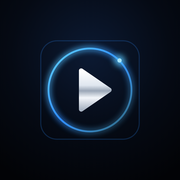
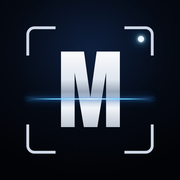
Media Studio: novo ícone (visor + M metálico)
Claude-Session: https://claude.ai/code/session_01E543Si2a25Tf39kkNbadQ5

diff --git a/sw.js b/sw.js
@@ -1,4 +1,4 @@
-const C='ps-app-202611241926', M='ps-modelos-1';
+const C='ps-app-202611241933', M='ps-modelos-1';
 const MODELOS=/\/(celular\/(modnet\.onnx|ort-wasm(-simd)?\.wasm|ort\.wasm\.min\.js)|fonts\/)/;
 self.addEventListener('install',e=>self.skipWaiting());
 self.addEventListener('activate',e=>e.waitUntil(caches.keys().then(ks=>Promise.all(ks.filter(k=>k!==C&&k!==M).map(k=>caches.delete(k)))).then(()=>self.clients.claim())));

diff --git a/README.md b/README.md
@@ -1,6 +1,6 @@
 # Media Studio (celular)
 
 Editor de posts e stories do Consultório Caio Endlich (Foto e Vídeo Lite), versão que roda no iPhone sem o Mac.
-Gerado por VideoStudio/celular_publicar.sh do repositório Consultorio em 202611241926. Não edite aqui: edite lá e publique de novo.
+Gerado por VideoStudio/celular_publicar.sh do repositório Consultorio em 202611241933. Não edite aqui: edite lá e publique de novo.
 
 Licenças: MODNet (Apache-2.0), onnxruntime-web (MIT), mp4-muxer (MIT), fontes OFL (pasta fonts/OFL*), fontes Fontshare (ITF Free Font License, fonts/fontshare/LICENSE-*).
